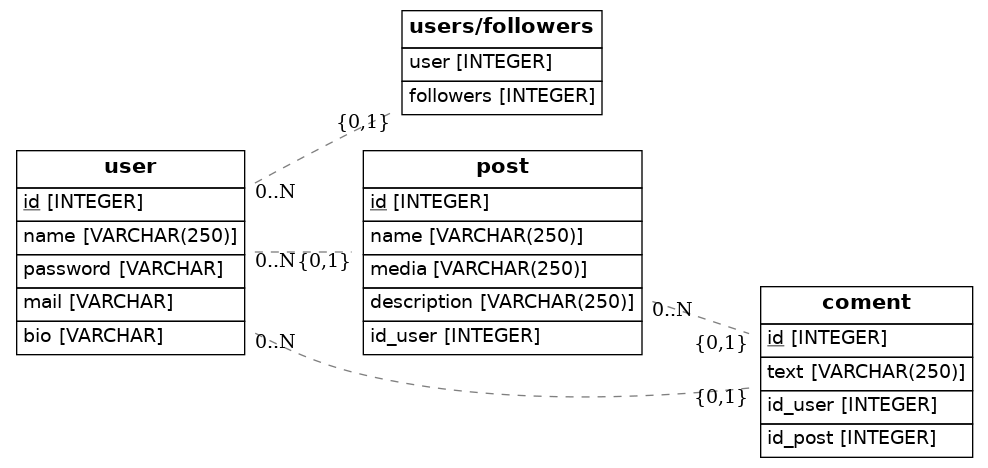
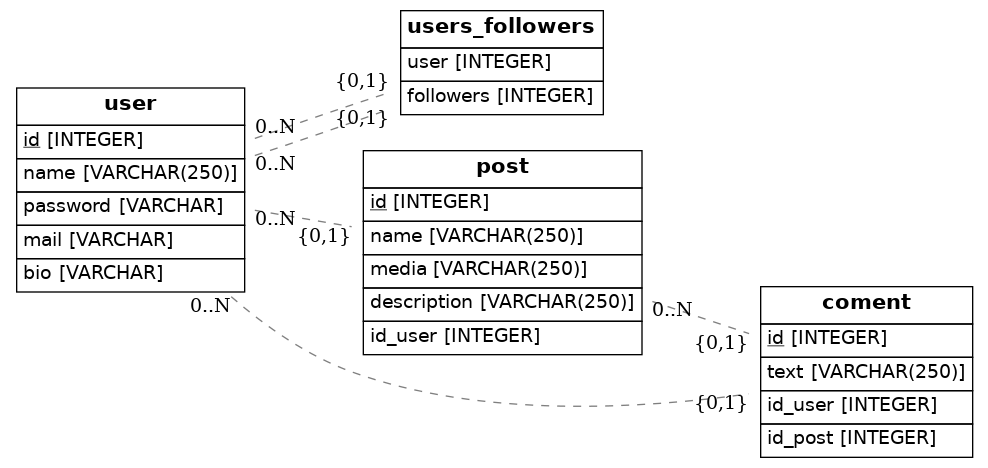
ended

diff --git a/src/models.py b/src/models.py
@@ -8,9 +8,9 @@ from eralchemy import render_er
 
 Base = declarative_base()
 
-association_table = Table('users/followers', Base.metadata,
+association_table = Table('users_followers', Base.metadata,
     Column('user', Integer, ForeignKey('user.id')),
-    Column('followers', Integer, ForeignKey('followers.id'))
+    Column('followers', Integer, ForeignKey('user.id'))
 )
 
 
@@ -23,12 +23,10 @@ class User(Base):
     password = Column(String)
     mail = Column(String)
     bio = Column(String, nullable=True)
-    children = relationship("Follower",secondary=association_table)
+    follower = relationship("Follower",secondary=association_table)
+    #follower = nombre de la columna 
 
     
-
-
-
 
 # class Followers (Base):
 #     __tablename__ = 'followers'
@@ -38,9 +36,6 @@ class User(Base):
 
 
         
-
-
-
 
 
 class Post(Base):
@@ -62,7 +57,7 @@ class Coment(Base):
     text = Column(String(250))
     id_user = Column (Integer, ForeignKey("user.id"))
     id_post = Column (Integer, ForeignKey("post.id"))
-    user = relationship('user')
+    to_coment = relationship('user')
 
 
 
